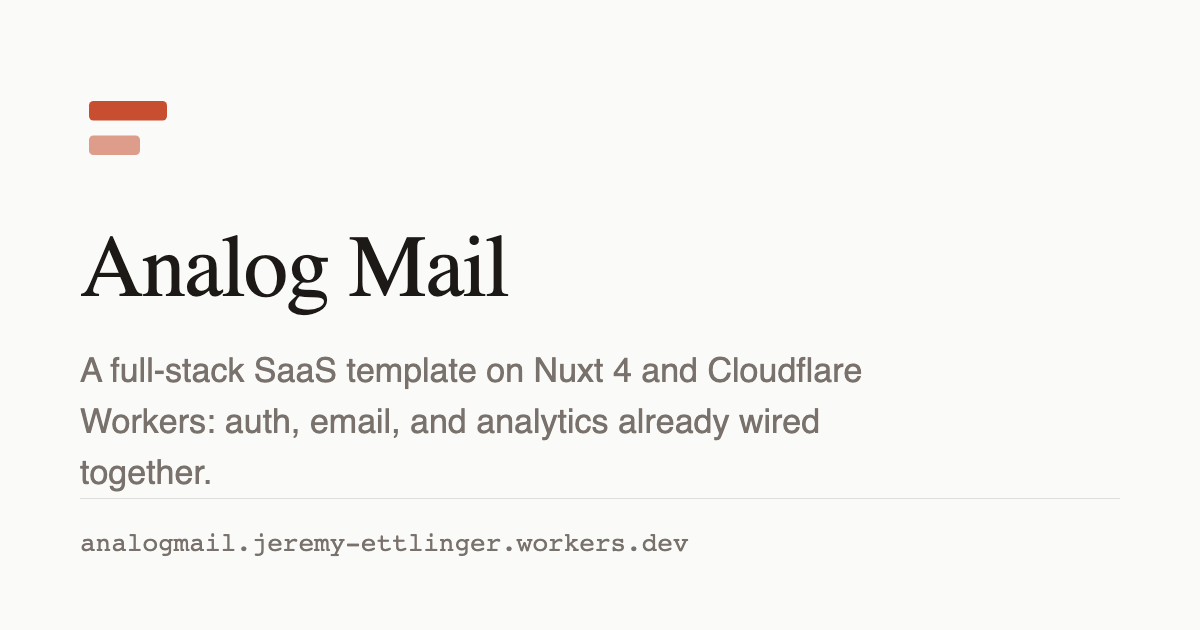
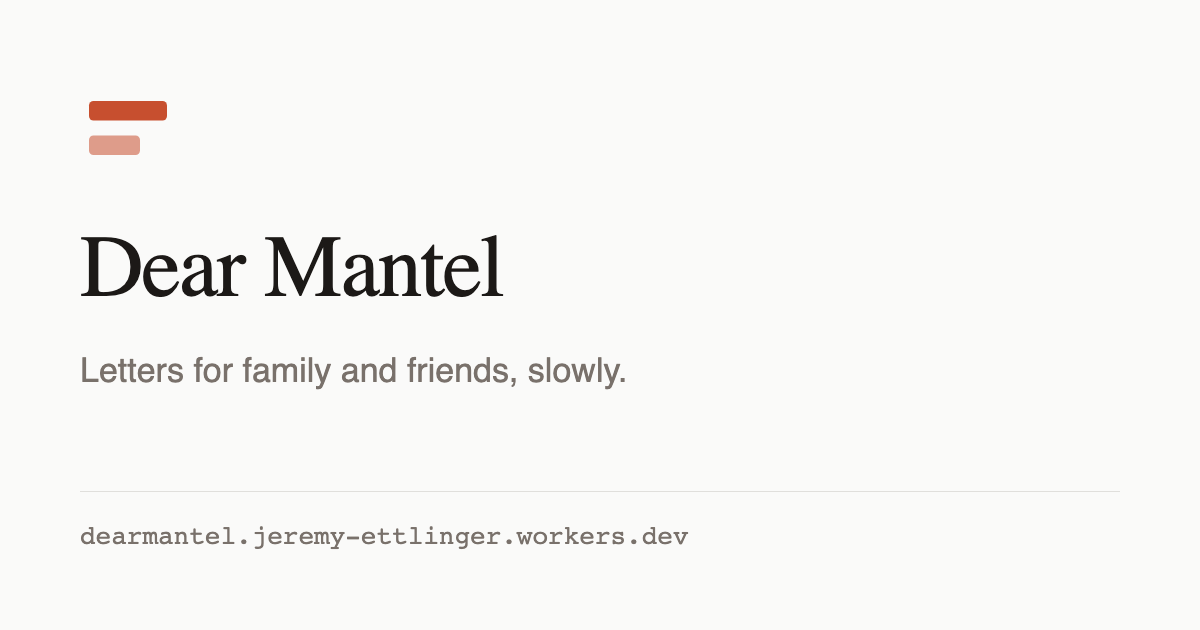
chore: rename to Dear Mantel (#7)
* chore: rename to Dear Mantel

Worker, database, key-value store, bucket, queues, package, fleet manifest
and public name all become dearmantel / Dear Mantel, on new Cloudflare
resources. Adds the one-sentence description as a public variable.

* fix: admin user page crashed on a badge the billing teardown removed

The template rendered accessBadge.color, but the computed went with billing,
so the page threw on render. nuxt typecheck does not catch it; the dev
server's type checker does.

---------

diff --git a/app/pages/admin/users/[id].vue b/app/pages/admin/users/[id].vue
@@ -82,9 +82,6 @@ useSeo({
         >
           admin
         </UBadge>
-        <UBadge :color="accessBadge.color" variant="subtle" :icon="accessBadge.icon">
-          {{ accessBadge.label }}
-        </UBadge>
       </div>
     </div>
 

diff --git a/README.md b/README.md
@@ -1,11 +1,11 @@
-# Analog Mail
+# Dear Mantel
 
-Digital letters between friends that arrive on a postal rhythm, so people can write less
-often without it feeling rude.
+Letters for family and friends, slowly. They arrive on a postal rhythm, so people can write
+less often without it feeling rude.
 
 - Letters take as long as the post would: two to nine postal days by distance, never on a Sunday.
 - The sender sees "In transit, arrives Thursday" and nothing after. No read receipts, no delivery confirmation.
-- The only notification is the flag going up: you have mail. It never says from whom or how many.
+- The only notification says something arrived on your mantel. It never says from whom or how many.
 - Letters are end-to-end encrypted. The server knows who writes to whom and when, never what.
 - Invite-only pairs of people who already know each other. No discovery, no streaks, no couriers.
 

diff --git a/.claude/docs/patterns.md b/.claude/docs/patterns.md
@@ -243,7 +243,7 @@ carries no local patch for it. The checks that make that true:
 - **Why not `extends: ['github:…']`**: NuxtHub's merged schema types leave layers under
   `node_modules` untyped, so a remote layer's tables lose their types.
 - **In a fork**, the template's other layers (billing, referral, files, social) are not vendored:
-  analogmail's teardown removed them. Their seams in core (the table above) stay, registering
+  this fork's teardown removed them. Their seams in core (the table above) stay, registering
   nothing, so a layer vendored later plugs in without a core change.
 
 ### Fork-owned layers

diff --git a/NOTICE.md b/NOTICE.md
@@ -1,6 +1,6 @@
 # Licensing
 
-Analog Mail is licensed under the Functional Source License, Version 1.1, MIT Future License (FSL-1.1-MIT). See [LICENSE](LICENSE). Each release becomes available under the MIT license two years after it is published.
+Dear Mantel is licensed under the Functional Source License, Version 1.1, MIT Future License (FSL-1.1-MIT). See [LICENSE](LICENSE). Each release becomes available under the MIT license two years after it is published.
 
 ## Portions under the MIT license
 
